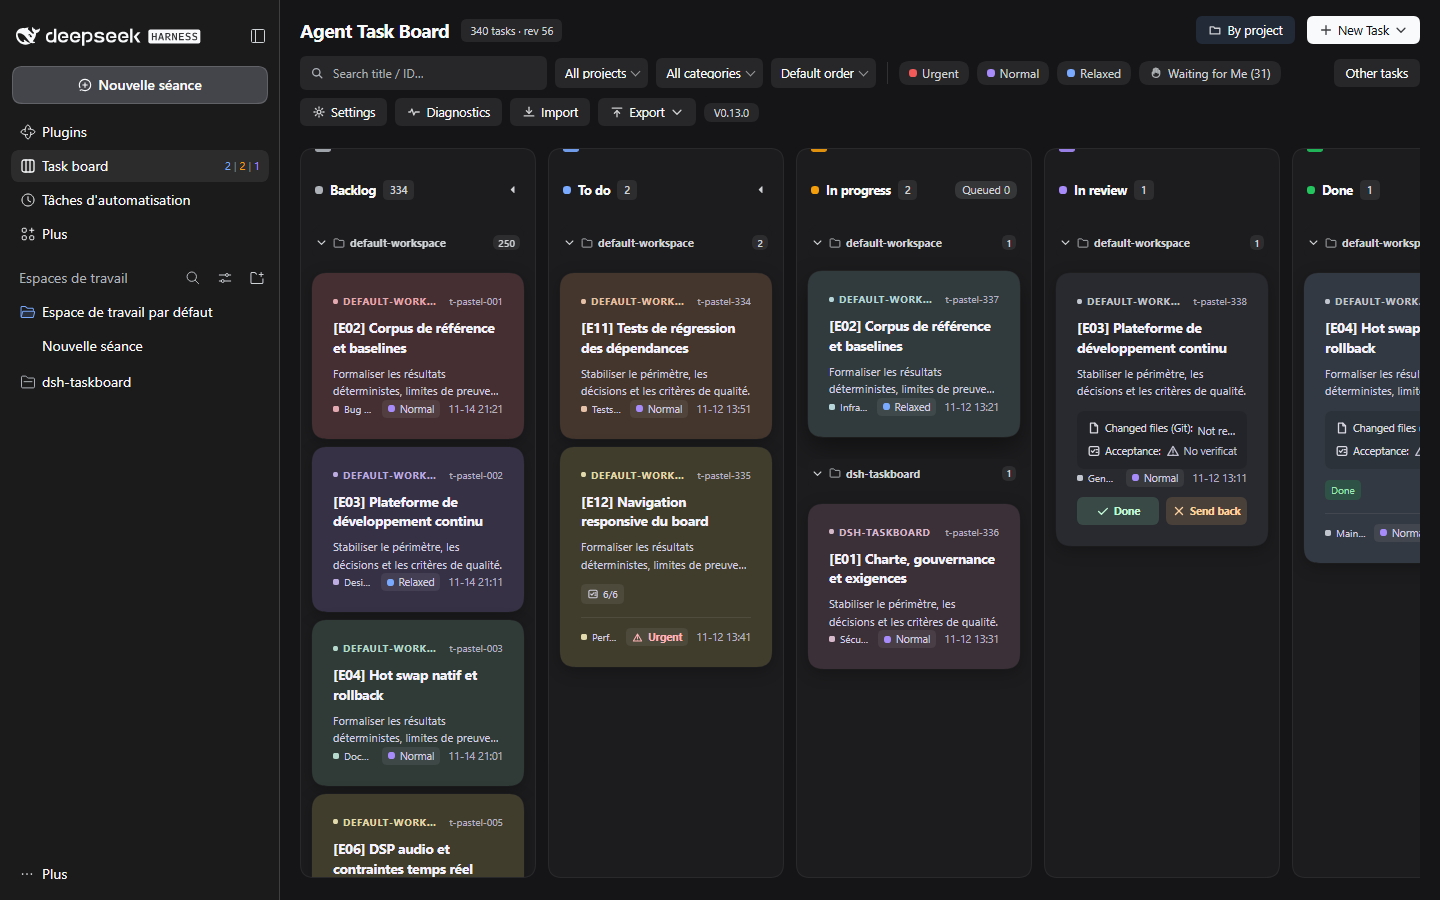
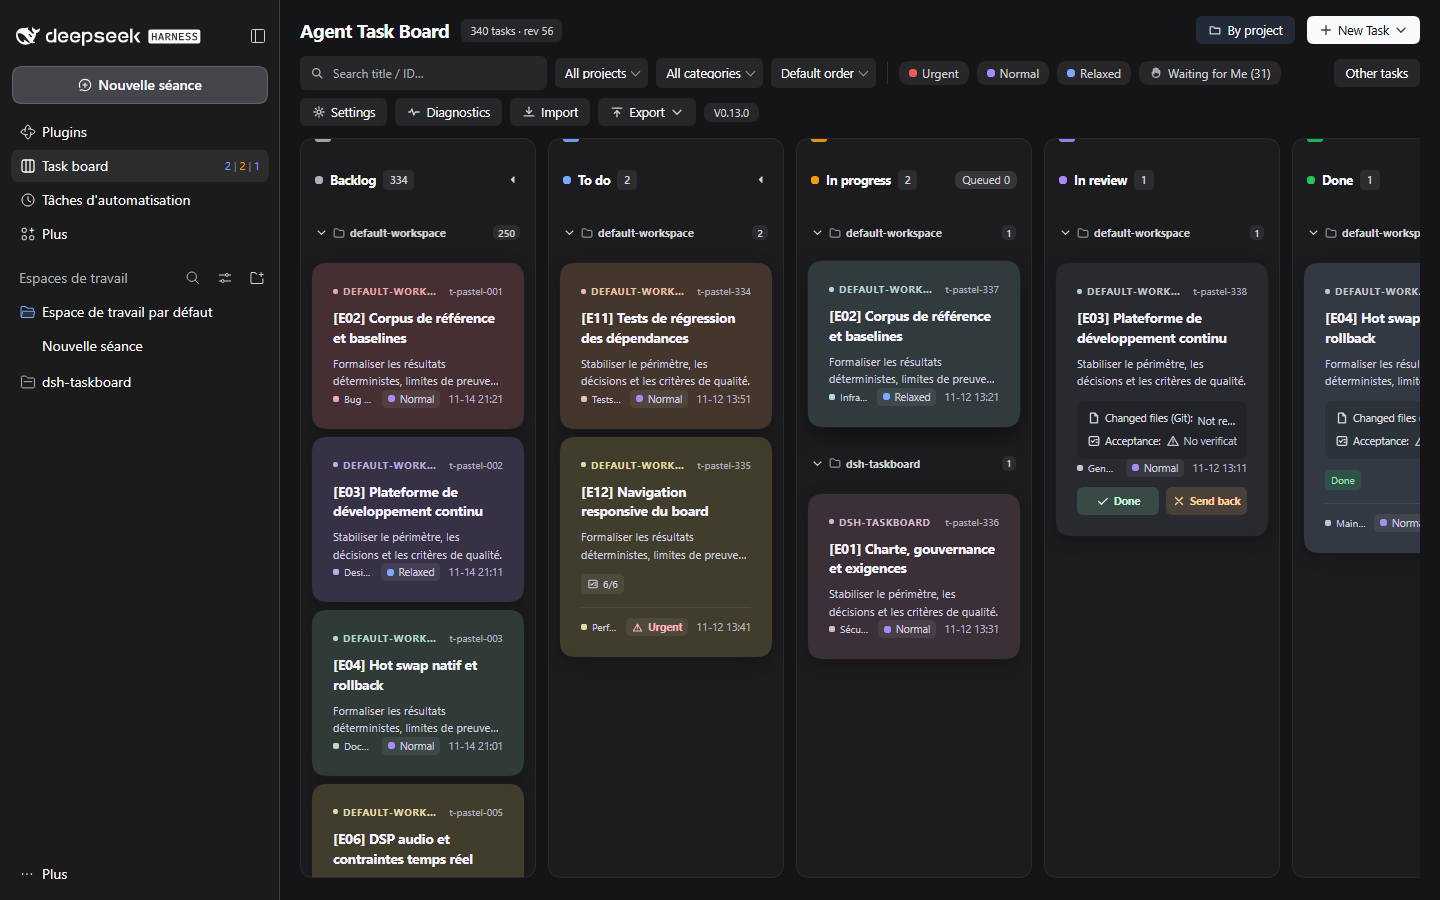
fix(ui): hide the focus-mode header on desktop and lock it with a check
The status rail and its swipe cue live in a wrapper inside the board body. That
wrapper was a `display:flex` box on every viewport, so it contributed an empty
row plus the body gap above the five columns. It is now `display:none` above
760px and only becomes flex inside the two focus media blocks, which keeps the
desktop body byte-identical to before this branch.

The real-host capture asserts both states (`desktop hides the focus-mode header
entirely`, `portrait shows the focus-mode header`) and the evidence was
regenerated: 58/58 checks, 13 screenshots.

diff --git a/src/client/styles.ts b/src/client/styles.ts
@@ -211,7 +211,9 @@ body[data-dsh-sidebar-collapsed] .dsh-atb-panel-root .dsh-atb-toolbar { padding-
 /* The two clusters are transparent wrappers on desktop: their children stay
    direct flex items of the toolbar (no layout change at all). */
 .dsh-atb-toolbar-filters, .dsh-atb-toolbar-actions { display: contents; }
-.dsh-atb-mobilehead { display: flex; align-items: center; gap: 8px; min-width: 0; }
+/* The focus-mode header (status tab rail + swipe cue) is a zero-cost box on
+   desktop: hidden entirely, so the board body keeps its exact previous layout. */
+.dsh-atb-mobilehead { display: none; align-items: center; gap: 8px; min-width: 0; }
 /* Narrow-viewport column navigation: hidden until the five columns stop fitting. */
 .dsh-atb-mobilebar { display: none; gap: 6px; flex: 1; min-width: 0; overflow-x: auto; scrollbar-width: none; }
 .dsh-atb-mobilebar::-webkit-scrollbar { display: none; }
@@ -2008,7 +2010,7 @@ button.dsh-atb-chip2.dsh-atb-chip-btn:hover, .dsh-atb-cron-preset:hover, .dsh-at
   .dsh-atb-searchfield { display: none; }
   .dsh-atb-board[data-atb-search="true"] .dsh-atb-searchfield { display: inline-flex; flex: 1 1 100%; min-width: 0; max-width: none; }
 
-  .dsh-atb-mobilehead { gap: 6px; }
+  .dsh-atb-mobilehead { display: flex; gap: 6px; }
   .dsh-atb-mobilebar {
     display: flex; gap: 7px; scroll-snap-type: x proximity;
     overscroll-behavior-x: contain; padding-bottom: 2px;
@@ -2091,7 +2093,7 @@ button.dsh-atb-chip2.dsh-atb-chip-btn:hover, .dsh-atb-cron-preset:hover, .dsh-at
   .dsh-atb-searchfield { display: none; }
   .dsh-atb-board[data-atb-search="true"] .dsh-atb-searchfield { display: inline-flex; flex: 1 1 220px; min-width: 0; max-width: none; height: 30px; }
 
-  .dsh-atb-mobilehead { gap: 7px; }
+  .dsh-atb-mobilehead { display: flex; gap: 7px; }
   .dsh-atb-mobilebar { display: flex; gap: 5px; scroll-snap-type: x proximity; overscroll-behavior-x: contain; }
   .dsh-atb-mobilebar-btn { height: 30px; padding: 0 9px; gap: 5px; font-size: 11px; border-radius: 9px; }
   .dsh-atb-mobilebar-count { font-size: 10px; padding: 1px 5px; }

diff --git a/docs/design/mobile-swipe/visual-report.md b/docs/design/mobile-swipe/visual-report.md
@@ -1,7 +1,7 @@
 # Mobile focus mode — real-host validation
 
 - Label: `feat/mobile-focus-swipe-v2`
-- Generated: 2026-11-14T20:37:47.378Z
+- Generated: 2026-11-14T20:40:29.691Z
 - Host: http://127.0.0.1:64941 (isolated DSH home, production client bundle from this working tree)
 - Browser: C:\Program Files\BraveSoftware\Brave-Browser\Application\brave.exe
 
@@ -28,13 +28,14 @@ Screenshots: `docs/design/mobile-swipe/captures/`.
 
 ## Checks
 
-Total: 56 — passed: 56 — failed: 0
+Total: 58 — passed: 58 — failed: 0
 
 - ✅ **desktop keeps five side-by-side columns** — {"focus":"none","columns":5,"widths":[236,236,236,236,236]}
 - ✅ **desktop columns are narrower than the rail (no carousel)** — [236,236,236,236,236]
 - ✅ **desktop keeps HTML5 drag on cards** — true
 - ✅ **desktop has no floating create button** — null
 - ✅ **desktop shows the inline filter cluster** — contents
+- ✅ **desktop hides the focus-mode header entirely** — none
 - ✅ **desktop has no page-level horizontal overflow** — overflow=0px
 - ✅ **desktop colour modes still colour cards by category** — 12 distinct surfaces over 340 cards
 - ✅ **host shell leaves the board reachable (no overlay)** — {"reachable":true,"hit":"DIV.dsh-atb-card"}
@@ -46,11 +47,12 @@ Total: 56 — passed: 56 — failed: 0
 - ✅ **portrait opens on the "To do" page** — {"active":"todo","counter":"2/5"}
 - ✅ **portrait compacts the toolbar into icon buttons** — {"actions":"flex","filters":"none","toolbarActions":"none"}
 - ✅ **portrait hides the search field until asked** — none
+- ✅ **portrait shows the focus-mode header** — flex
 - ✅ **portrait shows the swipe cue and page counter** — {"cue":"flex","counter":"2/5"}
 - ✅ **portrait offers a thumb-reachable create button** — {"display":"grid","rect":{"x":320,"y":774,"width":54,"height":54}}
 - ✅ **portrait never scrolls the page horizontally** — overflow=0px
 - ✅ **portrait cards keep the pastel surface** — 12 distinct surfaces
-- ✅ **portrait card title stays readable (WCAG AA)** — contrast=10.52
+- ✅ **portrait card title stays readable (WCAG AA)** — contrast=10.46
 - ✅ **tab click scrolls the rail to that page** — {"scrollLeft":1110,"expected":1110}
 - ✅ **tab click selects the tab** — {"active":"in_review","counter":"4/5"}
 - ✅ **the carousel moves by whole pages** — {"mechanism":"scrollBy (settled-swipe position)","movedBy":370,"pageWidth":370,"attempts":[{"mechanism":"scrollBy","direction":1,"before":370,"after":740}]}
@@ -74,8 +76,8 @@ Total: 56 — passed: 56 — failed: 0
 - ✅ **create button opens the task sheet with the templates** — {"sheet":true,"templates":6,"labels":["Blank task","New feature","Bug fix","Release check"]}
 - ✅ **host light theme applied without a plugin override** — {"dark":false,"scheme":"light"}
 - ✅ **portrait light theme keeps the carousel** — {"focus":"portrait","widths":[370,370,370,370,370]}
-- ✅ **portrait light theme paints light card surfaces** — luminance=0.688
-- ✅ **portrait light theme keeps the title readable (WCAG AA)** — contrast=10.45
+- ✅ **portrait light theme paints light card surfaces** — luminance=0.681
+- ✅ **portrait light theme keeps the title readable (WCAG AA)** — contrast=10.28
 - ✅ **landscape switches to the two-up carousel** — landscape
 - ✅ **landscape shows two columns per page** — {"widths":[380,380,380,380,380],"expected":379.5}
 - ✅ **landscape rail snaps horizontally** — {"clientWidth":768,"scrollWidth":1934,"scrollLeft":389,"snapType":"x mandatory","overscrollX":"contain","touchAction":"auto"}

diff --git a/docs/design/MOBILE-FOCUS-SWIPE-IMPLEMENTATION.md b/docs/design/MOBILE-FOCUS-SWIPE-IMPLEMENTATION.md
@@ -137,7 +137,7 @@ an **isolated** DSH home, links this working tree, seeds 340 categorised tasks
 and drives the production bundle in Chromium. `scripts/qa/mobile-swipe-capture.mjs`
 writes `metrics-mobile.json` + `visual-report-mobile.md` and 13 screenshots.
 
-Result: **56/56 checks passed** (see `docs/design/mobile-swipe/visual-report.md`).
+Result: **58/58 checks passed** (see `docs/design/mobile-swipe/visual-report.md`).
 Highlights:
 
 * desktop 1440×900: five columns (236 px each), drag enabled, no FAB, filter
